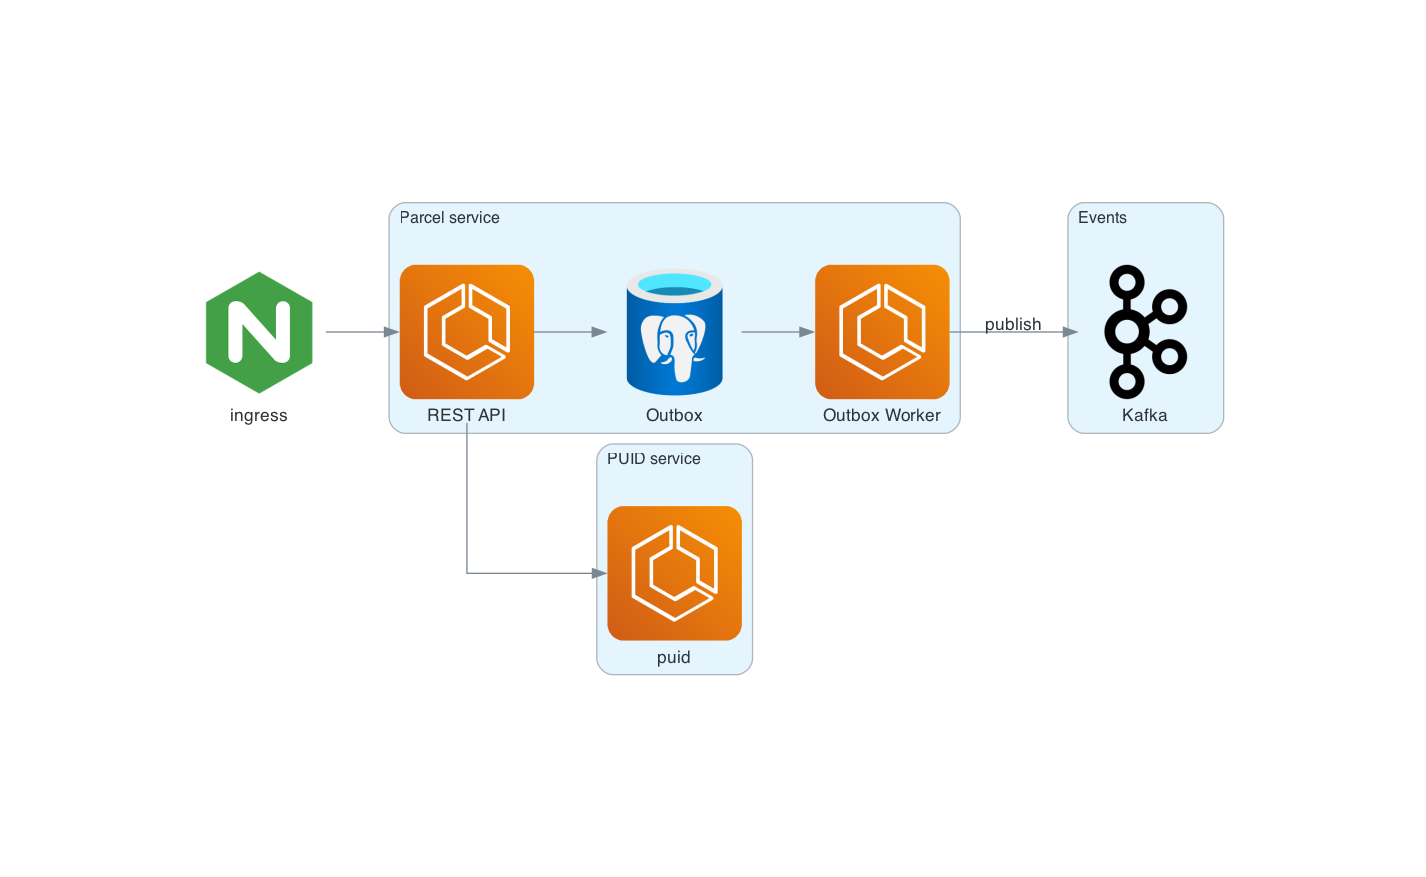
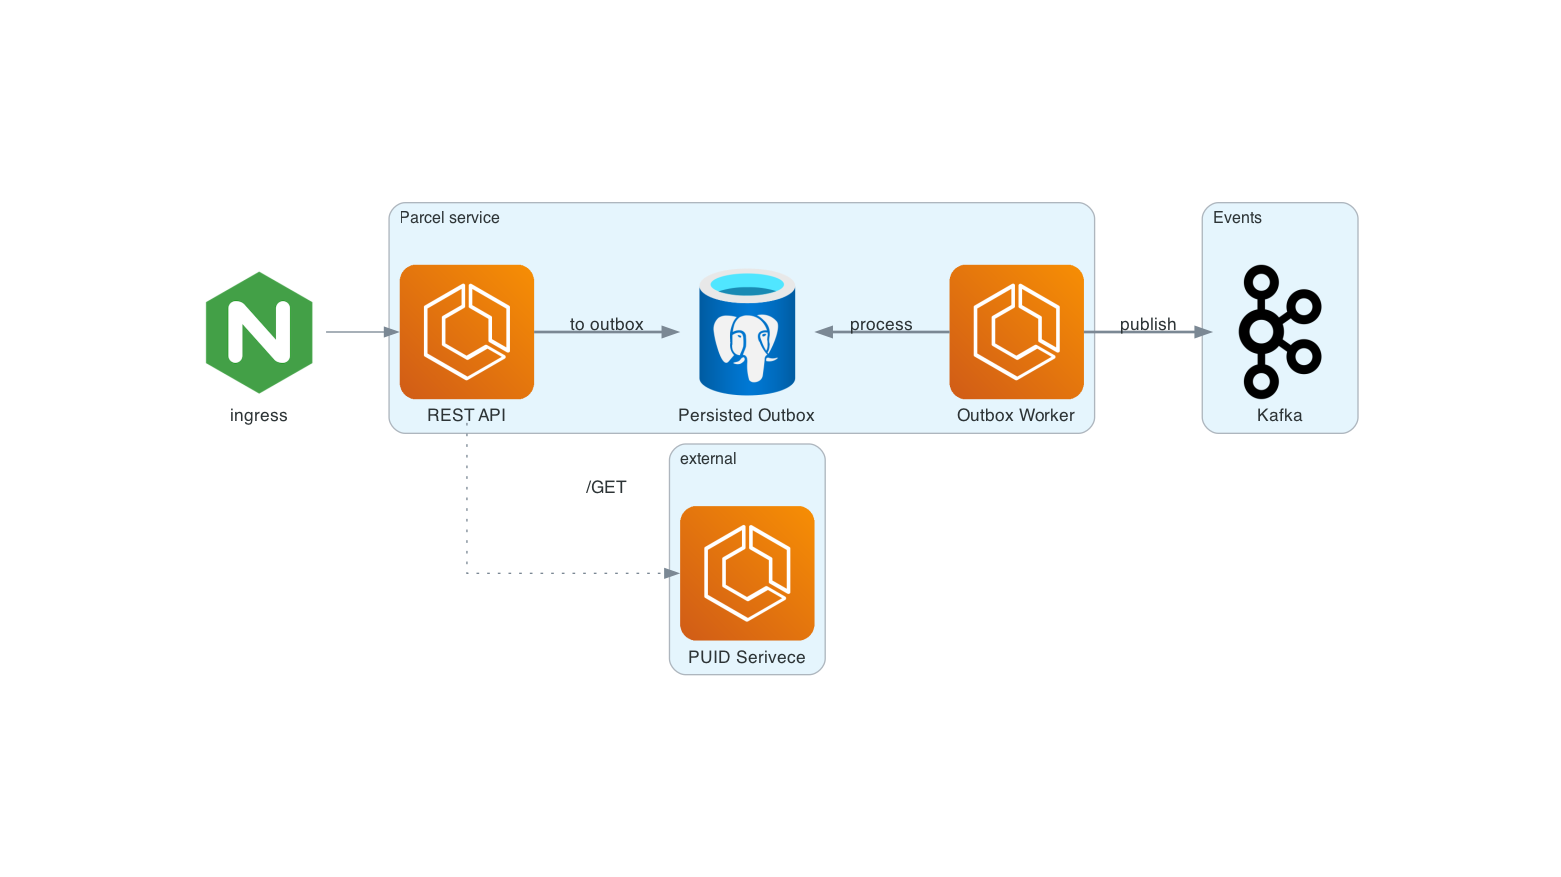
finetuning graph

Changed region(s): [[0.1234, 0.2155, 0.8948, 0.7697]]

diff --git a/docs/diagrams/parcel_service_with_outbox.py b/docs/diagrams/parcel_service_with_outbox.py
@@ -10,19 +10,22 @@ with Diagram(show=show_image, direction="LR", filename="parcel_service_with_outb
 
     ingres =  Nginx("ingress")
 
-    with Cluster("PUID service"):
-        puid_service = ECS("puid")
-    
+
     
     with Cluster("Events"):
         event_bus = Kafka("Kafka")     
 
-    with Cluster("Parcel service"):         
-        parcel_service = ECS("REST API") 
-        outbox = DatabaseForPostgresqlServers("Outbox")
-        parcel_service >> [puid_service, outbox]
-        outbox_worker = ECS("Outbox Worker")
-        outbox >> outbox_worker
+    with Cluster("external"):
+        puid_service = ECS("PUID Serivece")
 
-    outbox_worker >> Edge(label = "publish") >> event_bus
+    with Cluster("Parcel service", direction="LR"):         
+        parcel_service = ECS("REST API") 
+        parcel_service >> Edge(label = "/GET", style="dotted") >> puid_service
+        outbox = DatabaseForPostgresqlServers("Persisted Outbox")
+        parcel_service >> Edge(style="bold", label="to outbox") >> outbox
+        outbox_worker = ECS("Outbox Worker")
+        outbox << Edge(style="bold", label="process") << outbox_worker
+
+    outbox_worker >> Edge(label = "publish", style="bold") >> event_bus
+
     ingres >> parcel_service
